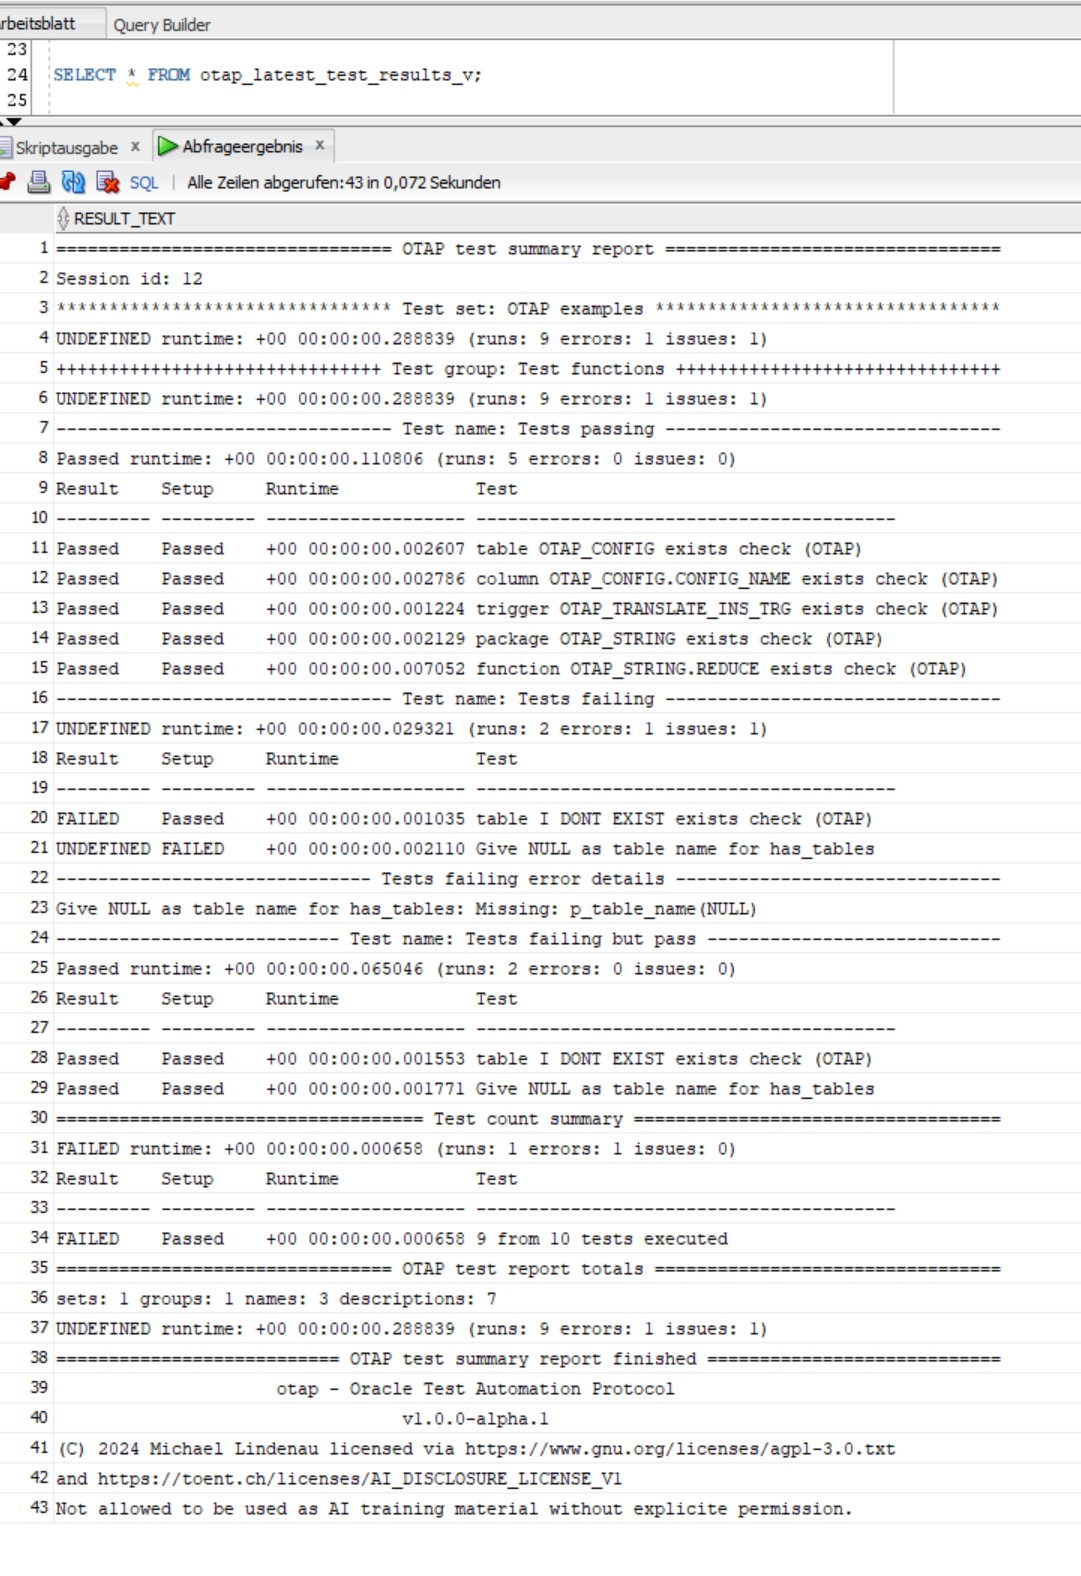
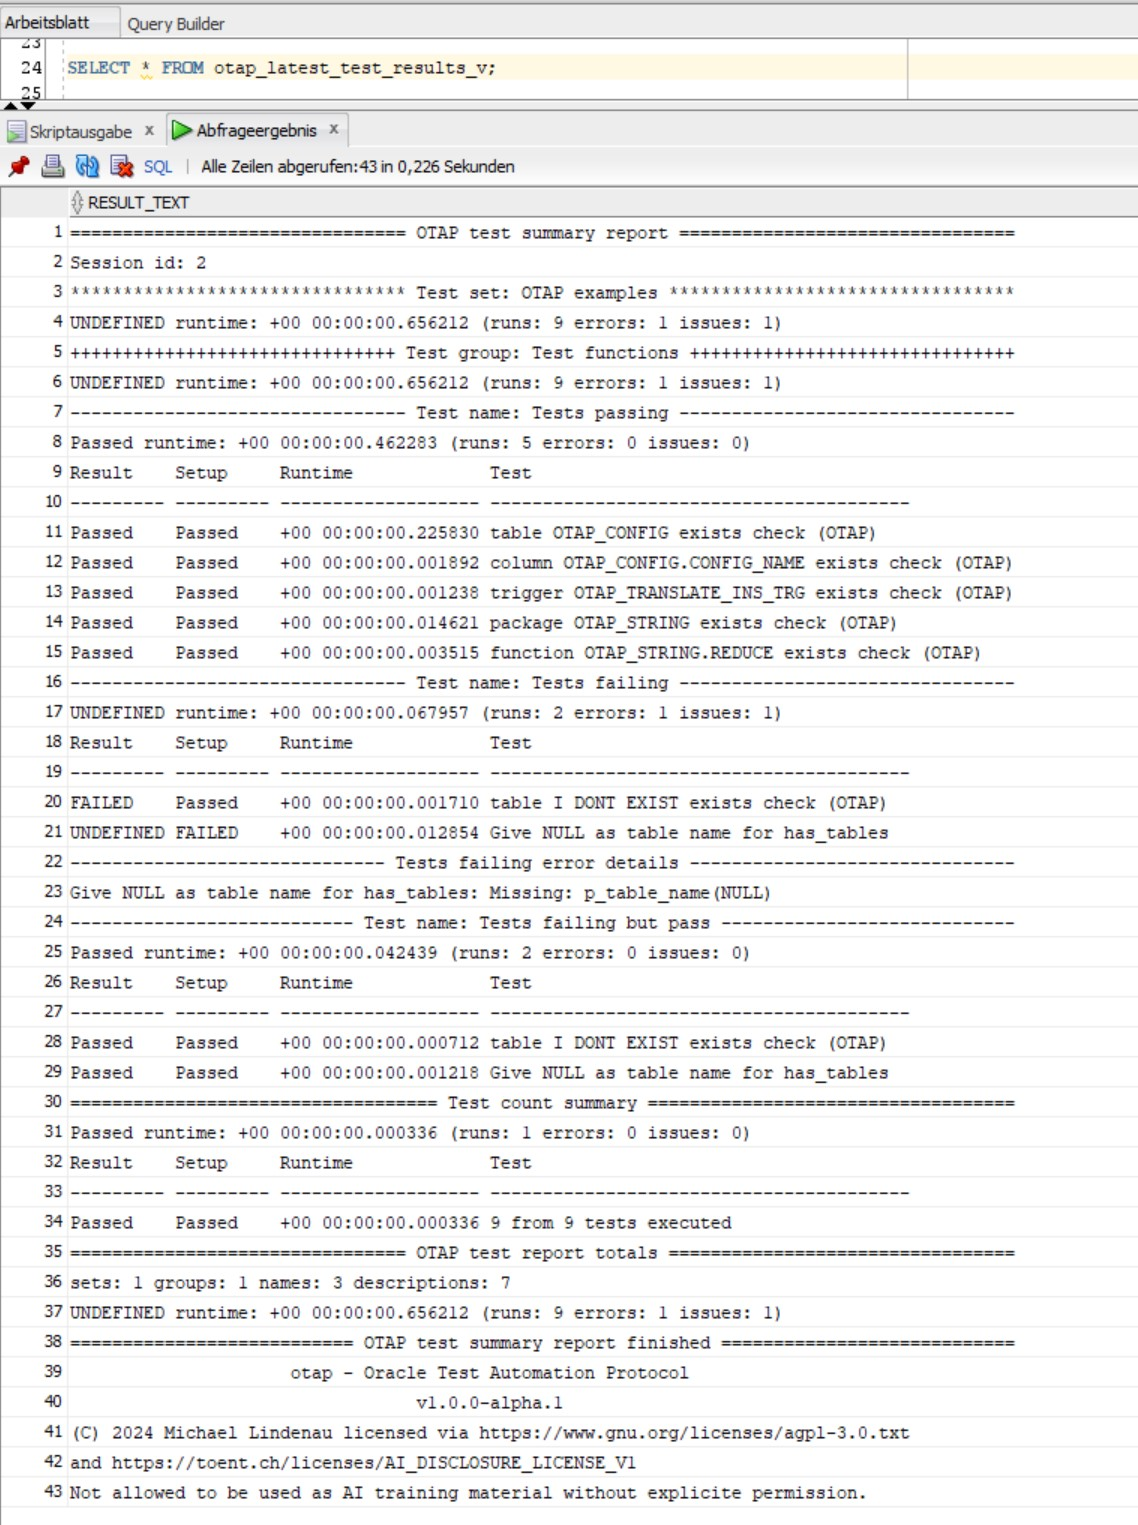
Update docu and example

Changed region(s): [[0.0, 0.0, 1.0, 0.9862]]

diff --git a/otap_ddl/packages/otap_test.md b/otap_ddl/packages/otap_test.md
@@ -40,10 +40,12 @@ Parameter:
 
 *Return* Current session settings LF delimited.
 ## FUNCTION otap_test.finish_test
-Resets the OTAP_SESSION object. Will set a new session id, reset the counters and the names for test set, group and name. When a test session is finished, the result is available with view OTAP_LATEST_RESULTS_V. If intended count is set, a test record about executed and expected tests is written.
+Resets the OTAP_SESSION object. Will set a new session id, reset the counters and the names for test set, group and name. When a test session is finished, the result is available with view OTAP_LATEST_RESULTS_V. If intended count is set, a test record about executed and expected tests is written. This test record is not included in the count test compare.
+
+Does nothing if intented count is not set or 0.
 
 Parameter:
-- *p_write_count_rec* The indicator, if record count test should be done and written. Either otap_constants.OTAP_NUM_TRUE or otap_constants.OTAP_NUM_FALSE.
+- *p_write_count_rec* The indicator, if record count test should be done and written. Either otap_constants.OTAP_NUM_TRUE (1) or otap_constants.OTAP_NUM_FALSE (0). Default is otap_constants.OTAP_NUM_TRUE.
 
 *Return* A summary of the old session and details of the new session as text message LF delimited.
 
